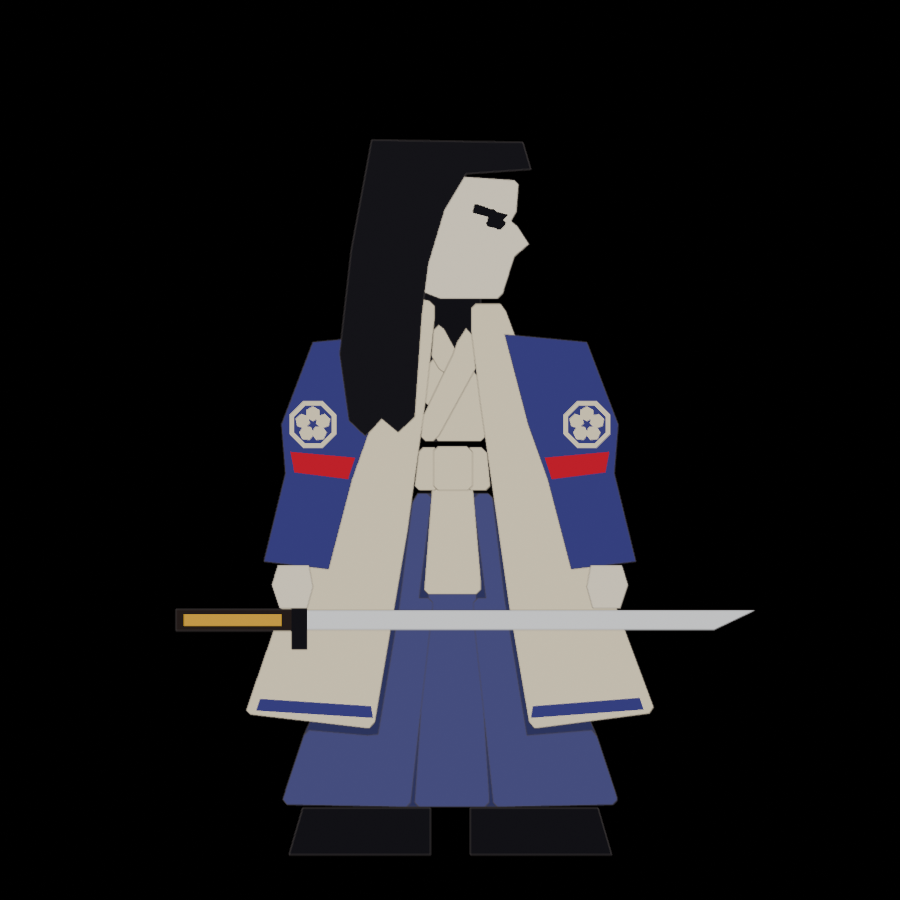
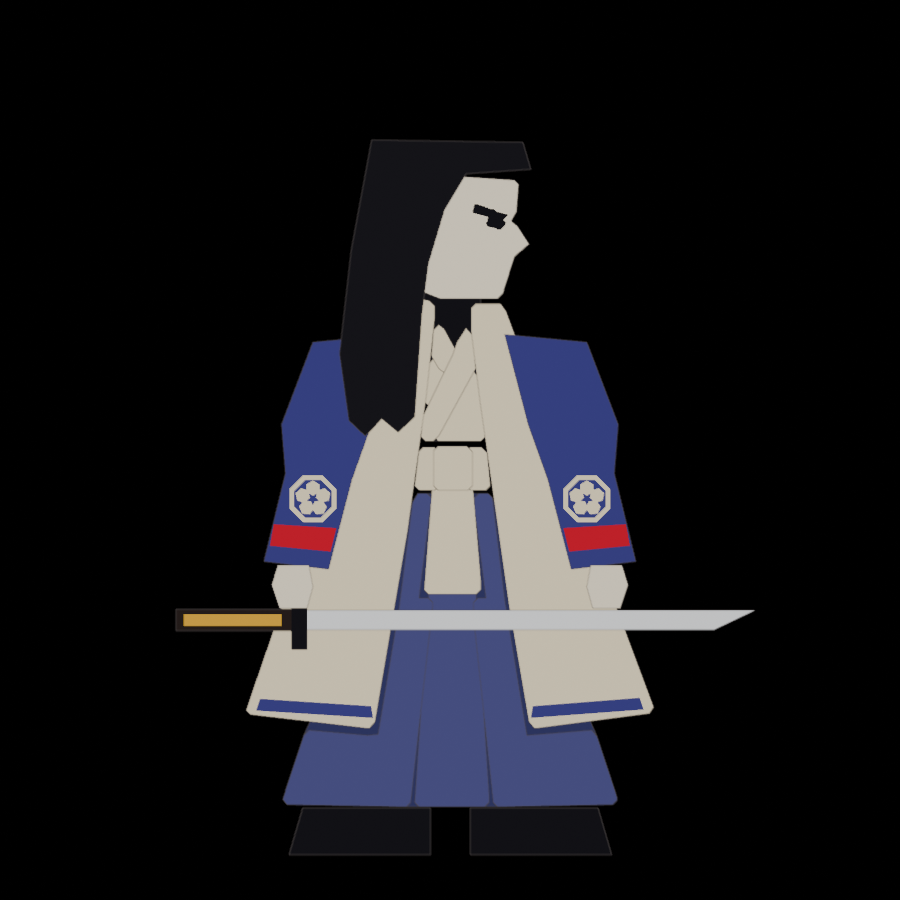
Sumi's crest and cord move to the wrist, like Kami's cuffs

Changed region(s): [[0.5911, 0.4356, 0.7156, 0.6222], [0.28, 0.4356, 0.4044, 0.6222]]

diff --git a/art/fighters/build_from_trace.py b/art/fighters/build_from_trace.py
@@ -161,8 +161,17 @@ def reshape(o, faces):
     me.update()
 
 SUMI_SLEEVE = [(0.28, 2.66), (0.70, 2.62), (0.86, 2.20), (0.84, 1.95), (0.95, 1.50), (0.62, 1.46), (0.50, 1.92), (0.40, 2.20)]
+# Her design sits at the wrist, like Kami's wave cuffs (Marz): the cord is a cuff band just above the opening,
+# the crest right above it.
+SUMI_CORD = [(0.58, 1.67), (0.90, 1.69), (0.92, 1.58), (0.61, 1.55)]
+CREST_Z = 1.82
 left = faces_of(D.objects['sumi_sleeve_L'])
 left[0] = ('pc_robe', left[0][1], SUMI_SLEEVE)
+crest = [i for i, (m, _, _) in enumerate(left) if i > 0 and m != 'pc_cord']
+cz = max(sum(z for _, z in left[i][2]) / len(left[i][2]) for i in crest[:1])  # the crest's outer ring
+for i, (m, y, pts) in enumerate(left):
+    if m == 'pc_cord': left[i] = (m, y, SUMI_CORD)
+    elif i in crest: left[i] = (m, y, [(x, z + CREST_Z - cz) for x, z in pts])
 reshape(D.objects['sumi_sleeve_L'], left)
 reshape(D.objects['sumi_sleeve_R'], [(m, y, [(-x, z) for x, z in reversed(pts)]) for m, y, pts in left])
 for s in 'LR':

diff --git a/docs/GDD.md b/docs/GDD.md
@@ -275,4 +275,4 @@ The one question it answers: **does mouse-driven paper swordplay feel good?** Si
 | 2026-11-03 | Title screen trimmed to six modes, in this order: Ranked, Fight a friend, Endless, Dojo Defense, Training, Tutorial. Fight a friend opens a screen with Duel (an invite room) and Tournament, the room-code box and a small "fight whoever is waiting" button (the old unranked Find a fight). Practice vs Sumi is renamed Training | Marz: the menu had too many options. Online-first order puts the PvP core on top (pillar 3); the unranked queue stays reachable but no longer competes with Ranked for the same players. |
 | 2026-11-03 | Netcode: rollback replaces waiting lockstep. Input delay 2–6 frames (about half the lag), up to 8 guessed frames, guesses keep held buttons and never invent presses; K.O.s and achievements wait for confirmed frames; the game running ahead holds back a frame now and then. The server, referee and watchers are unchanged | Marz's friend duel felt laggy: with lockstep any hitch or ping spike on either PC froze both screens and every move waited the full lag. Rollback is the genre standard for duels decided by a few frames (pillar 3). |
 | 2026-11-04 | Spelling: "Dojo Defense" (American) everywhere players and the docs see it. Code names (`cfg.defence`, `DEFENCE_CFG`) stay, since rooms send them online | Marz's call. |
-| 2026-11-04 | Fighters rebuilt from Marz's clean front-view drawing (`art/fighters/reference/kami_front.webp`), traced by script: every ink-bounded region is its own paper piece (tilted topknot, tall standing collar, big hanging sleeves with cream wave cuffs, long cream coat, three-part obi, apron, three hakama strips, tabi), stacked so hidden parts run on under the pieces in front. Shoulders 0.42 lower and 0.12 narrower, neck 0.22 lower; the arms keep their length, so every pose and the reach are unchanged. Both fighters share the body; Sumi keeps her long hair, her colours stay swapped, and her sleeves now reach the wrist like Kami's (narrower, with her crest and the cord tied at the elbow; the bare forearms are gone, Marz's call) | Marz: the old figures were far too boxy ("South Park"), with shoulders much too wide, and lost the guide's chunky-kimono silhouette; pieces should stack like paper. Hand-reshaping kept anchoring to the old box, so the drawing is now the source and the trace makes it exact. Meshy (AI 3D) was checked and turned down: one sculpted mesh breaks the flat paper pieces and the rig. Drawing only (pillar 3: same body and reach in the fight). Watch: the coat's hem reaches past the hit box (about 0.55 m from centre), so a blade grazing the hem doesn't count; Sumi would look her best with her own front view traced the same way. |
+| 2026-11-04 | Fighters rebuilt from Marz's clean front-view drawing (`art/fighters/reference/kami_front.webp`), traced by script: every ink-bounded region is its own paper piece (tilted topknot, tall standing collar, big hanging sleeves with cream wave cuffs, long cream coat, three-part obi, apron, three hakama strips, tabi), stacked so hidden parts run on under the pieces in front. Shoulders 0.42 lower and 0.12 narrower, neck 0.22 lower; the arms keep their length, so every pose and the reach are unchanged. Both fighters share the body; Sumi keeps her long hair, her colours stay swapped, and her sleeves now reach the wrist like Kami's (narrower, with her crest and cord at the wrist like Kami's wave cuffs; the bare forearms are gone, Marz's call) | Marz: the old figures were far too boxy ("South Park"), with shoulders much too wide, and lost the guide's chunky-kimono silhouette; pieces should stack like paper. Hand-reshaping kept anchoring to the old box, so the drawing is now the source and the trace makes it exact. Meshy (AI 3D) was checked and turned down: one sculpted mesh breaks the flat paper pieces and the rig. Drawing only (pillar 3: same body and reach in the fight). Watch: the coat's hem reaches past the hit box (about 0.55 m from centre), so a blade grazing the hem doesn't count; Sumi would look her best with her own front view traced the same way. |

diff --git a/docs/blender-pipeline.md b/docs/blender-pipeline.md
@@ -95,7 +95,7 @@ Both fighters share one rig and one set of pieces. A paper piece whose name star
 
 **Already in the file** (built by Claude from these steps on 2026-11-02, at Marz's request; the cord is a little thicker than in 7d: corners (0.64, 2.34), (0.915, 2.375), (0.935, 2.48), (0.605, 2.45), and the forearms a little wider). The steps stay here so you can see how each piece is made and change any corner. Marz's picks (the straw hat of the first draft was swapped for hair worn down at Marz's request):
 - **Kami** keeps the topknot and the wide hanging sleeves.
-- **Sumi** wears long hair down (no topknot), and sleeves tied back above the elbow with a cord, with bare forearms. **Changed 2026-11-04:** her sleeves now reach the wrist like Kami's (`build_from_trace.py` reshapes them; the cord stays at the elbow) and the forearms are gone, so steps 7d and 7e below are history.
+- **Sumi** wears long hair down (no topknot), and sleeves tied back above the elbow with a cord, with bare forearms. **Changed 2026-11-04:** her sleeves now reach the wrist like Kami's (`build_from_trace.py` reshapes them; her crest and cord sit at the wrist, like Kami's wave cuffs) and the forearms are gone, so steps 7d and 7e below are history.
 
 **Stay inside the H box:** the game hits a box 0.9 m wide and 2.15 m tall. In Blender units that's X −0.86 to +0.86 and Z up to 4.10. Sumi's hair below stays inside it (the top of the head and X −0.47 at the back).
 
